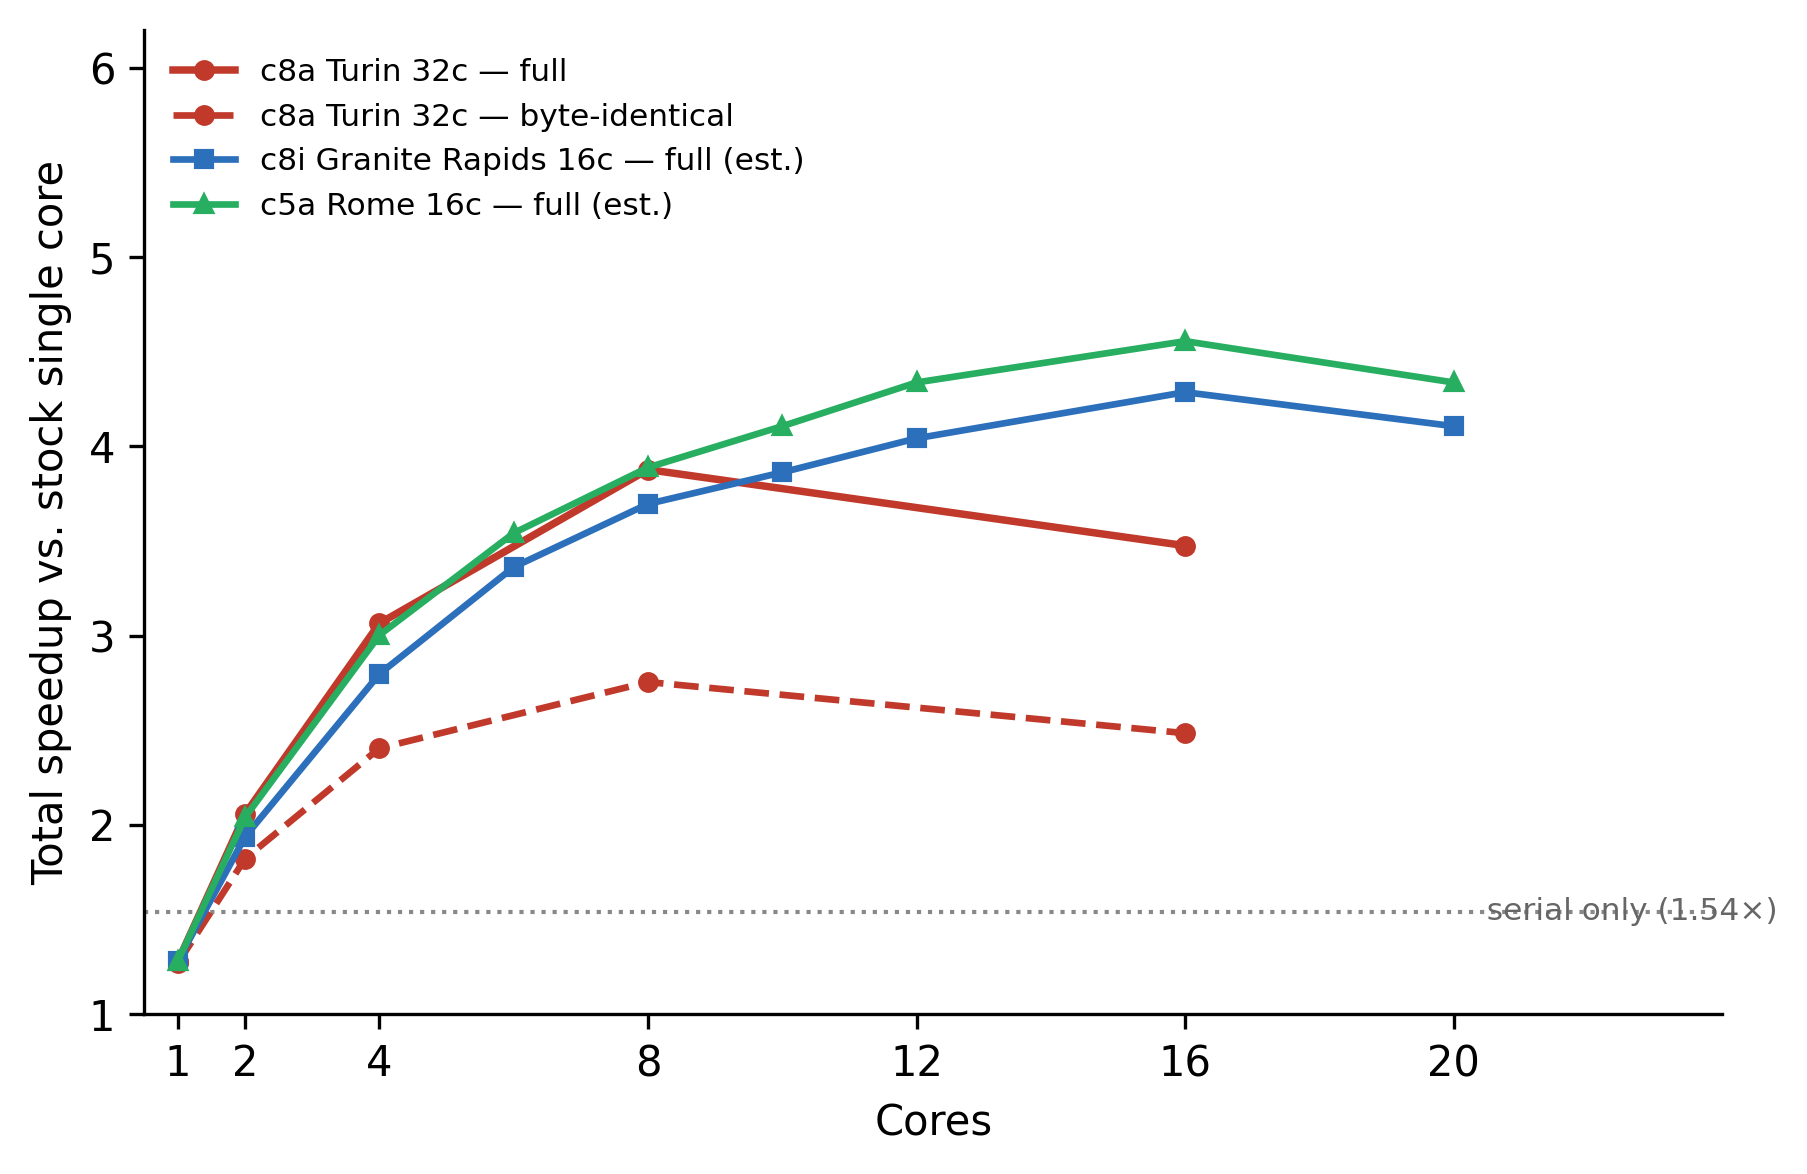
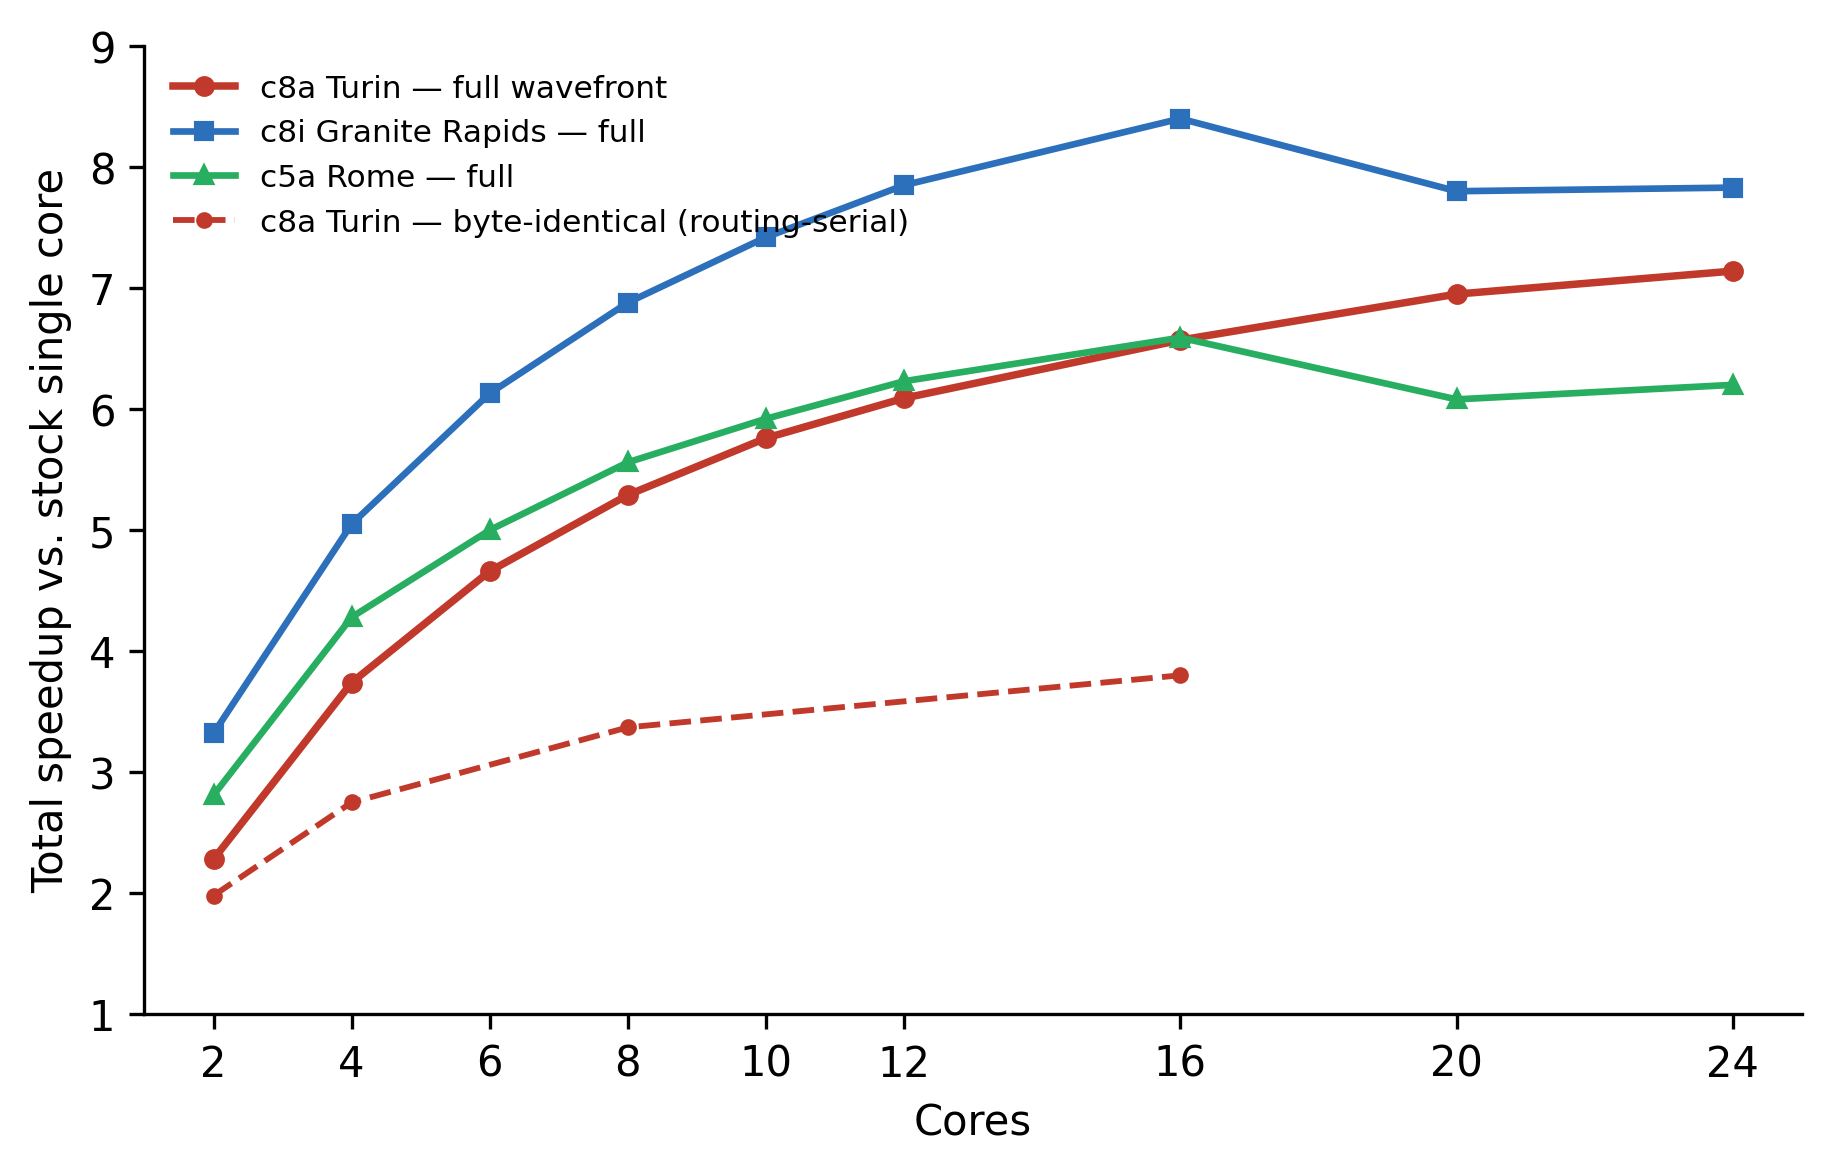
Add byte-identical sub-study + refresh figures with consistent final-engine data

diff --git a/make_figures.py b/make_figures.py
@@ -21,31 +21,28 @@ plt.rcParams.update({
     "figure.dpi": 150,
 })
 
-# ---- Figure: cross-hardware scaling (Table 3) ----
-# (The fixed-clock workstation figure was removed: all timings are now AWS-only.)
-n = [2, 4, 6, 8, 10, 12, 16, 20]
-c8a = [1.66, 2.62, 3.18, 3.56, 3.79, 4.03, 4.40, 4.62]   # AMD Turin 32c
-c8i = [1.51, 2.18, 2.62, 2.88, 3.01, 3.15, 3.34, 3.20]   # Intel Granite Rapids 16c x2
-c5a = [1.59, 2.34, 2.76, 3.03, 3.20, 3.38, 3.55, 3.38]   # AMD Rome 16c x2
+# ---- Figure: cross-hardware scaling (final engine, dedicated AWS instances) ----
+# Self-relative speedup (each machine's own t1 -> N). Consistent final-engine re-run,
+# one simulated year, daily channel_sd, best of two. (Workstation removed; AWS-only.)
+n   = [2, 4, 6, 8, 10, 12, 16, 20, 24]
+c8a = [1.70, 2.79, 3.48, 3.95, 4.30, 4.54, 4.90, 5.18, 5.33]   # AMD EPYC "Turin", 32 vCPU
+c8i = [1.59, 2.41, 2.93, 3.29, 3.55, 3.75, 4.01, 3.73, 3.74]   # Intel Xeon "Granite Rapids", 32 vCPU
+c5a = [1.62, 2.47, 2.89, 3.21, 3.42, 3.60, 3.81, 3.51, 3.58]   # AMD EPYC "Rome", 32 vCPU
 
 fig, ax = plt.subplots(figsize=(5.4, 3.6))
-ax.plot(n, c8a, marker="o", ms=4, lw=1.6, color="#c0392b",
-        label="c8a (Turin, 32c)")
-ax.plot(n, c8i, marker="s", ms=4, lw=1.6, color="#2c6fbb",
-        label="c8i (Granite Rapids, 16c×2)")
-ax.plot(n, c5a, marker="^", ms=4, lw=1.6, color="#27ae60",
-        label="c5a (Rome, 16c×2)")
-# peak markers
-ax.annotate("peak 4.62×\n(20 of 32c, climbing)", xy=(20, 4.62), xytext=(13.5, 4.75),
+ax.plot(n, c8a, marker="o", ms=4, lw=1.6, color="#c0392b", label="c8a (Turin)")
+ax.plot(n, c8i, marker="s", ms=4, lw=1.6, color="#2c6fbb", label="c8i (Granite Rapids)")
+ax.plot(n, c5a, marker="^", ms=4, lw=1.6, color="#27ae60", label="c5a (Rome)")
+ax.annotate("Turin still climbing\nat 24 threads (5.33×)", xy=(24, 5.33), xytext=(13, 5.2),
             fontsize=8, color="#c0392b",
             arrowprops=dict(arrowstyle="->", color="#c0392b", lw=0.8))
-ax.annotate("16c parts peak,\nregress on SMT", xy=(16, 3.55), xytext=(8.5, 2.0),
+ax.annotate("others peak ~16,\nregress on SMT", xy=(16, 4.01), xytext=(8.5, 2.1),
             fontsize=8, color="#555",
             arrowprops=dict(arrowstyle="->", color="#555", lw=0.8))
 ax.set_xlabel("Worker threads")
 ax.set_ylabel("Speedup (each machine's own $1\\rightarrow N$)")
 ax.set_xticks(n)
-ax.set_ylim(1.2, 5.0)
+ax.set_ylim(1.2, 5.8)
 ax.legend(frameon=False, loc="lower right", fontsize=8)
 fig.tight_layout()
 fig.savefig(os.path.join(FIGDIR, "Figure_3.png"), dpi=300, bbox_inches="tight")
@@ -53,50 +50,27 @@ plt.close(fig)
 
 print("WROTE", os.path.join(FIGDIR, "Figure_3.png"))
 
-# ---- Figure 3: comprehensive speedup configurator (total vs stock single-core) ----
-# Anchors: c8a measured stock baseline 217.7s; optimized serial 141.5s (1.54x).
-# Non-c8a curves are self-relative parallel scaling, anchored to the optimized-serial
-# reference by the ~1.20x parallel-binary N=1 overhead, then x1.54 serial.
-SERIAL = 1.54
-N1OVR = 1.20
-
-def interp(xs, ys, x):
-    if x <= xs[0]:
-        return ys[0]
-    if x >= xs[-1]:
-        return ys[-1]
-    for i in range(len(xs) - 1):
-        if xs[i] <= x <= xs[i + 1]:
-            t = (x - xs[i]) / (xs[i + 1] - xs[i])
-            return ys[i] + t * (ys[i + 1] - ys[i])
-    return ys[-1]
-
-# c8a measured wall times -> P anchored to optimized serial (141.5)
-c8a_n = [1, 2, 4, 8, 16]
-c8a_full_wall = [170.2, 105.9, 71.1, 56.2, 62.7]
-c8a_byte_wall = [171.5, 119.6, 90.6, 79.1, 87.7]
-c8a_full_tot = [SERIAL * 141.5 / w for w in c8a_full_wall]
-c8a_byte_tot = [SERIAL * 141.5 / w for w in c8a_byte_wall]
-
-# self-relative parallel curves -> total vs stock = SERIAL * (Pself / N1OVR)
-# (Workstation curve removed: all timings are AWS-only.)
-c8i_n = [1, 2, 4, 6, 8, 10, 12, 16, 20]; c8i_p = [1.00, 1.51, 2.18, 2.62, 2.88, 3.01, 3.15, 3.34, 3.20]
-c5a_n = [1, 2, 4, 6, 8, 10, 12, 16, 20]; c5a_p = [1.00, 1.59, 2.34, 2.76, 3.03, 3.20, 3.38, 3.55, 3.38]
-c8i_tot = [SERIAL * p / N1OVR for p in c8i_p]
-c5a_tot = [SERIAL * p / N1OVR for p in c5a_p]
+# ---- Figure: speedup configurator (total vs stock single-core, end-to-end) ----
+# Directly measured R0(stock,1 thread) / R6FULL(N) on each dedicated AWS instance.
+nn  = [2, 4, 6, 8, 10, 12, 16, 20, 24]
+c8a_tot = [2.28, 3.74, 4.66, 5.29, 5.76, 6.09, 6.57, 6.95, 7.14]   # Turin
+c8i_tot = [3.32, 5.05, 6.13, 6.88, 7.42, 7.85, 8.40, 7.80, 7.83]   # Granite Rapids
+c5a_tot = [2.81, 4.28, 5.00, 5.56, 5.92, 6.23, 6.59, 6.08, 6.20]   # Rome
+# c8a byte-identical (routing-serial) mode: directly measured vs-stock on the same box.
+byte_n   = [2, 4, 8, 16]
+c8a_byte = [1.98, 2.75, 3.37, 3.80]
 
 fig, ax = plt.subplots(figsize=(6.2, 4.0))
-ax.axhline(SERIAL, color="#888", lw=1.0, ls=":", zorder=1)
-ax.text(20.2, SERIAL, f"  serial only ({SERIAL:.2f}×)", va="center", ha="left", fontsize=7.5, color="#666")
-ax.plot(c8a_n, c8a_full_tot, marker="o", ms=4, lw=1.8, color="#c0392b", label="c8a Turin 32c — full")
-ax.plot(c8a_n, c8a_byte_tot, marker="o", ms=4, lw=1.6, color="#c0392b", ls="--", label="c8a Turin 32c — byte-identical")
-ax.plot(c8i_n, c8i_tot, marker="s", ms=4, lw=1.6, color="#2c6fbb", label="c8i Granite Rapids 16c — full (est.)")
-ax.plot(c5a_n, c5a_tot, marker="^", ms=4, lw=1.6, color="#27ae60", label="c5a Rome 16c — full (est.)")
+ax.plot(nn, c8a_tot, marker="o", ms=4, lw=1.8, color="#c0392b", label="c8a Turin — full wavefront")
+ax.plot(nn, c8i_tot, marker="s", ms=4, lw=1.6, color="#2c6fbb", label="c8i Granite Rapids — full")
+ax.plot(nn, c5a_tot, marker="^", ms=4, lw=1.6, color="#27ae60", label="c5a Rome — full")
+ax.plot(byte_n, c8a_byte, marker="o", ms=3, lw=1.4, color="#c0392b", ls="--",
+        label="c8a Turin — byte-identical (routing-serial)")
 ax.set_xlabel("Cores")
 ax.set_ylabel("Total speedup vs. stock single core")
-ax.set_xticks([1, 2, 4, 8, 12, 16, 20])
-ax.set_xlim(0.5, 24)
-ax.set_ylim(1.0, 6.2)
+ax.set_xticks(nn)
+ax.set_xlim(1.0, 25)
+ax.set_ylim(1.0, 9.0)
 ax.legend(frameon=False, loc="upper left", fontsize=7.5)
 fig.tight_layout()
 fig.savefig(os.path.join(FIGDIR, "Figure_5.png"), dpi=300, bbox_inches="tight")